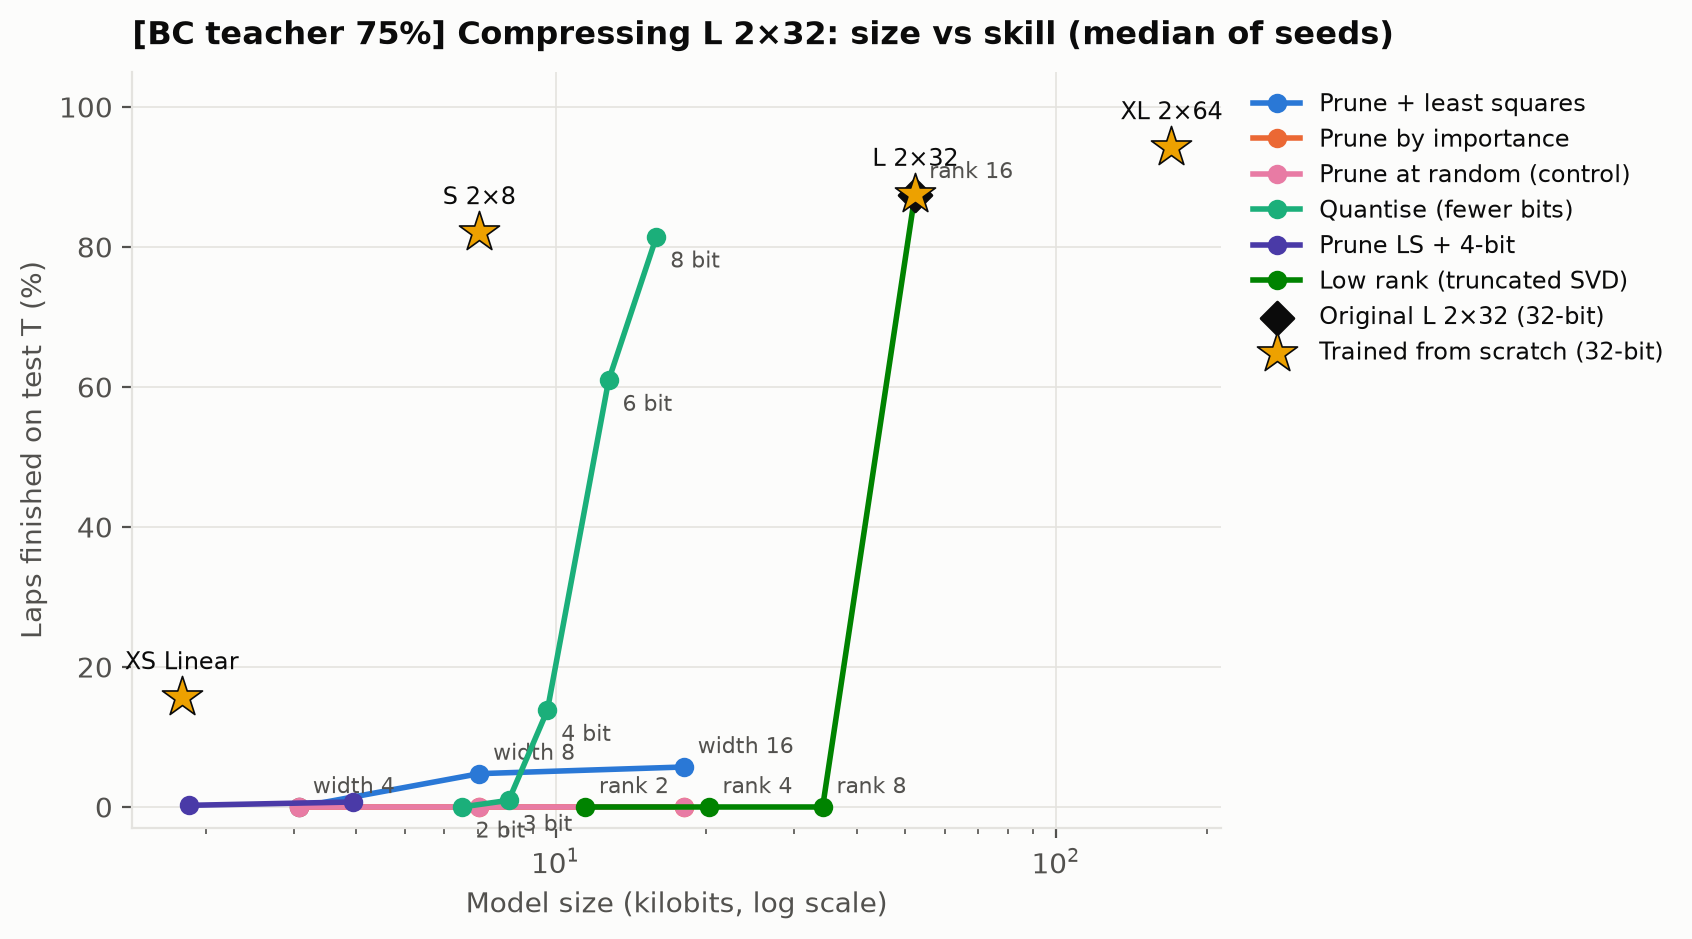
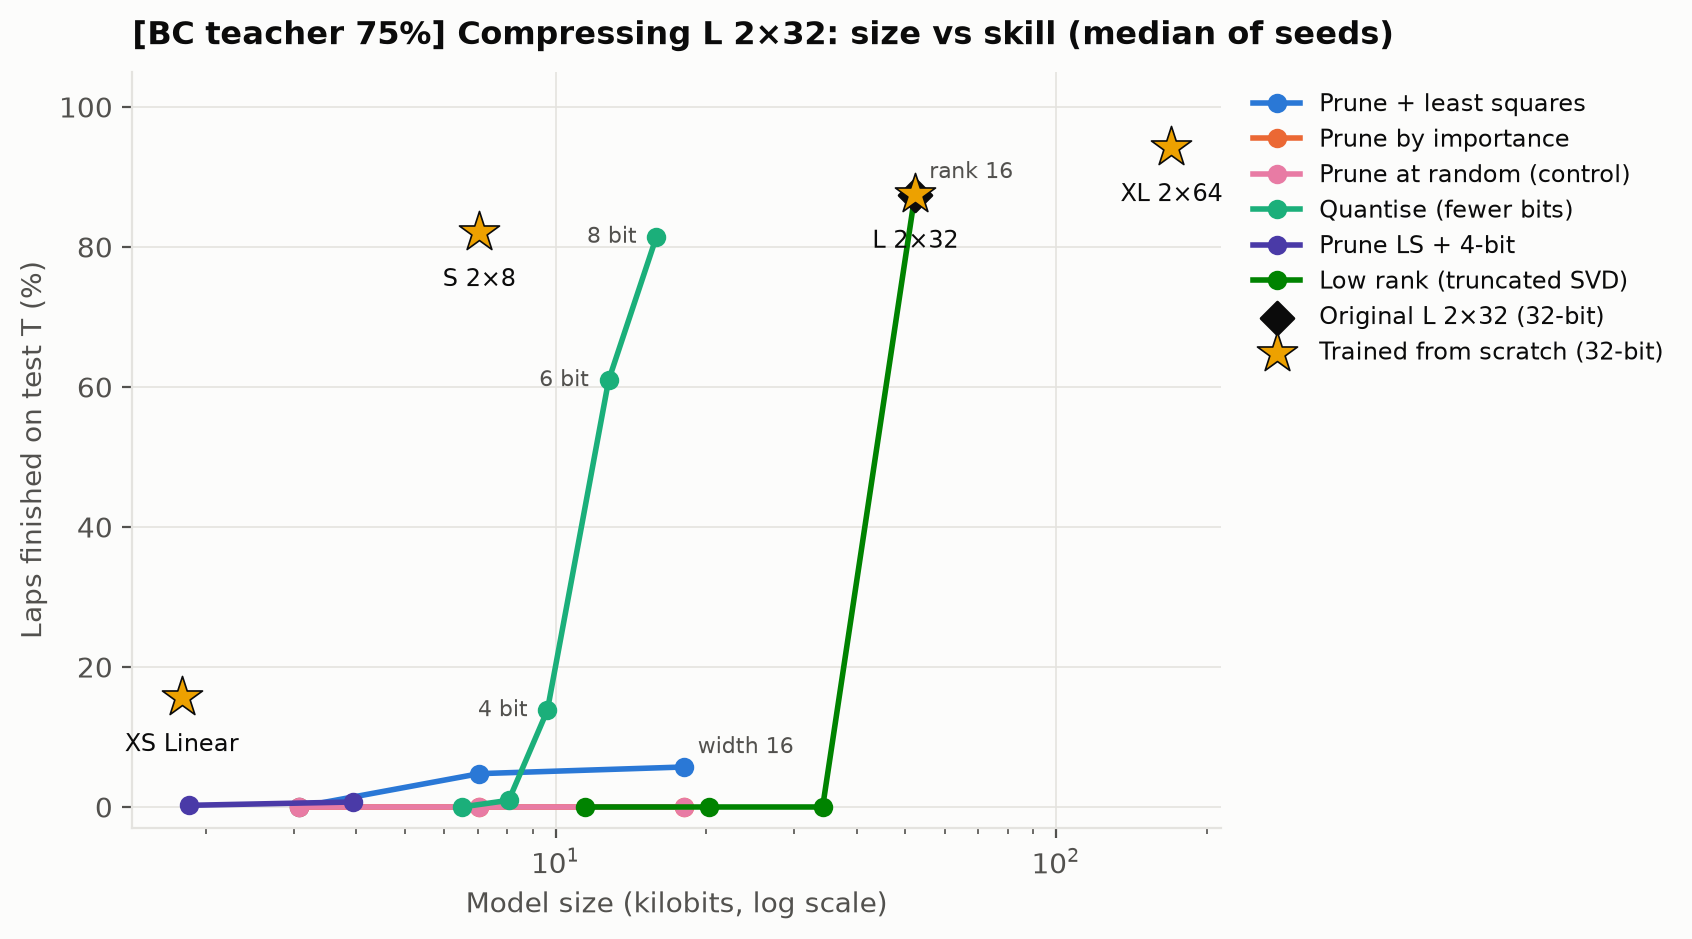
Declutter compression plot labels

diff --git a/analysis/plot_stage4.py b/analysis/plot_stage4.py
@@ -66,16 +66,19 @@ def fig_pareto(src, comp, trained):
         ax.plot(x, y, "-o", color=color, label=lab, ms=6, zorder=3)
         if m == "quantise":
             for n, xi, yi in zip(names, x, y):
-                ax.annotate(f"{comp[n][0]['bits']} bit", (xi, yi), xytext=(5, -11), textcoords="offset points",
-                            fontsize=8, color=style.TEXT_2)
+                if yi >= 5:   # points on the zero line stay unlabeled (they would pile up)
+                    ax.annotate(f"{comp[n][0]['bits']} bit", (xi, yi), xytext=(-7, 0), textcoords="offset points",
+                                fontsize=8, color=style.TEXT_2, ha="right", va="center")
         elif m == "low_rank":
             for n, xi, yi in zip(names, x, y):
-                ax.annotate(f"rank {n[7:]}", (xi, yi), xytext=(5, 5), textcoords="offset points",
-                            fontsize=8, color=style.TEXT_2)
+                if yi >= 5:
+                    ax.annotate(f"rank {n[7:]}", (xi, yi), xytext=(5, 5), textcoords="offset points",
+                                fontsize=8, color=style.TEXT_2)
         elif m == "prune_ls":
             for n, xi, yi in zip(names, x, y):
-                ax.annotate(f"width {comp[n][0]['width']}", (xi, yi), xytext=(5, 5), textcoords="offset points",
-                            fontsize=8, color=style.TEXT_2)
+                if yi >= 5:
+                    ax.annotate(f"width {comp[n][0]['width']}", (xi, yi), xytext=(5, 5), textcoords="offset points",
+                                fontsize=8, color=style.TEXT_2)
     o = comp["original"]
     ax.scatter([o[0]["size_bits"] / 1000], [np.median(finish(o))], marker="D", s=70, color=style.TEXT, zorder=5,
                label=f"Original {SRC_LABEL[src]} (32-bit)")
@@ -85,8 +88,8 @@ def fig_pareto(src, comp, trained):
                label="Trained from scratch (32-bit)")
     for t in trained.values():
         if t["finish"]:
-            ax.annotate(t["label"], (t["kbit"], np.median(t["finish"])), xytext=(0, 10), textcoords="offset points",
-                        ha="center", fontsize=8.5, color=style.TEXT)
+            ax.annotate(t["label"], (t["kbit"], np.median(t["finish"])), xytext=(0, -13), textcoords="offset points",
+                        ha="center", va="top", fontsize=8.5, color=style.TEXT)
     ax.set_xscale("log")
     ax.set_xlabel("Model size (kilobits, log scale)")
     ax.set_ylabel("Laps finished on test T (%)")
